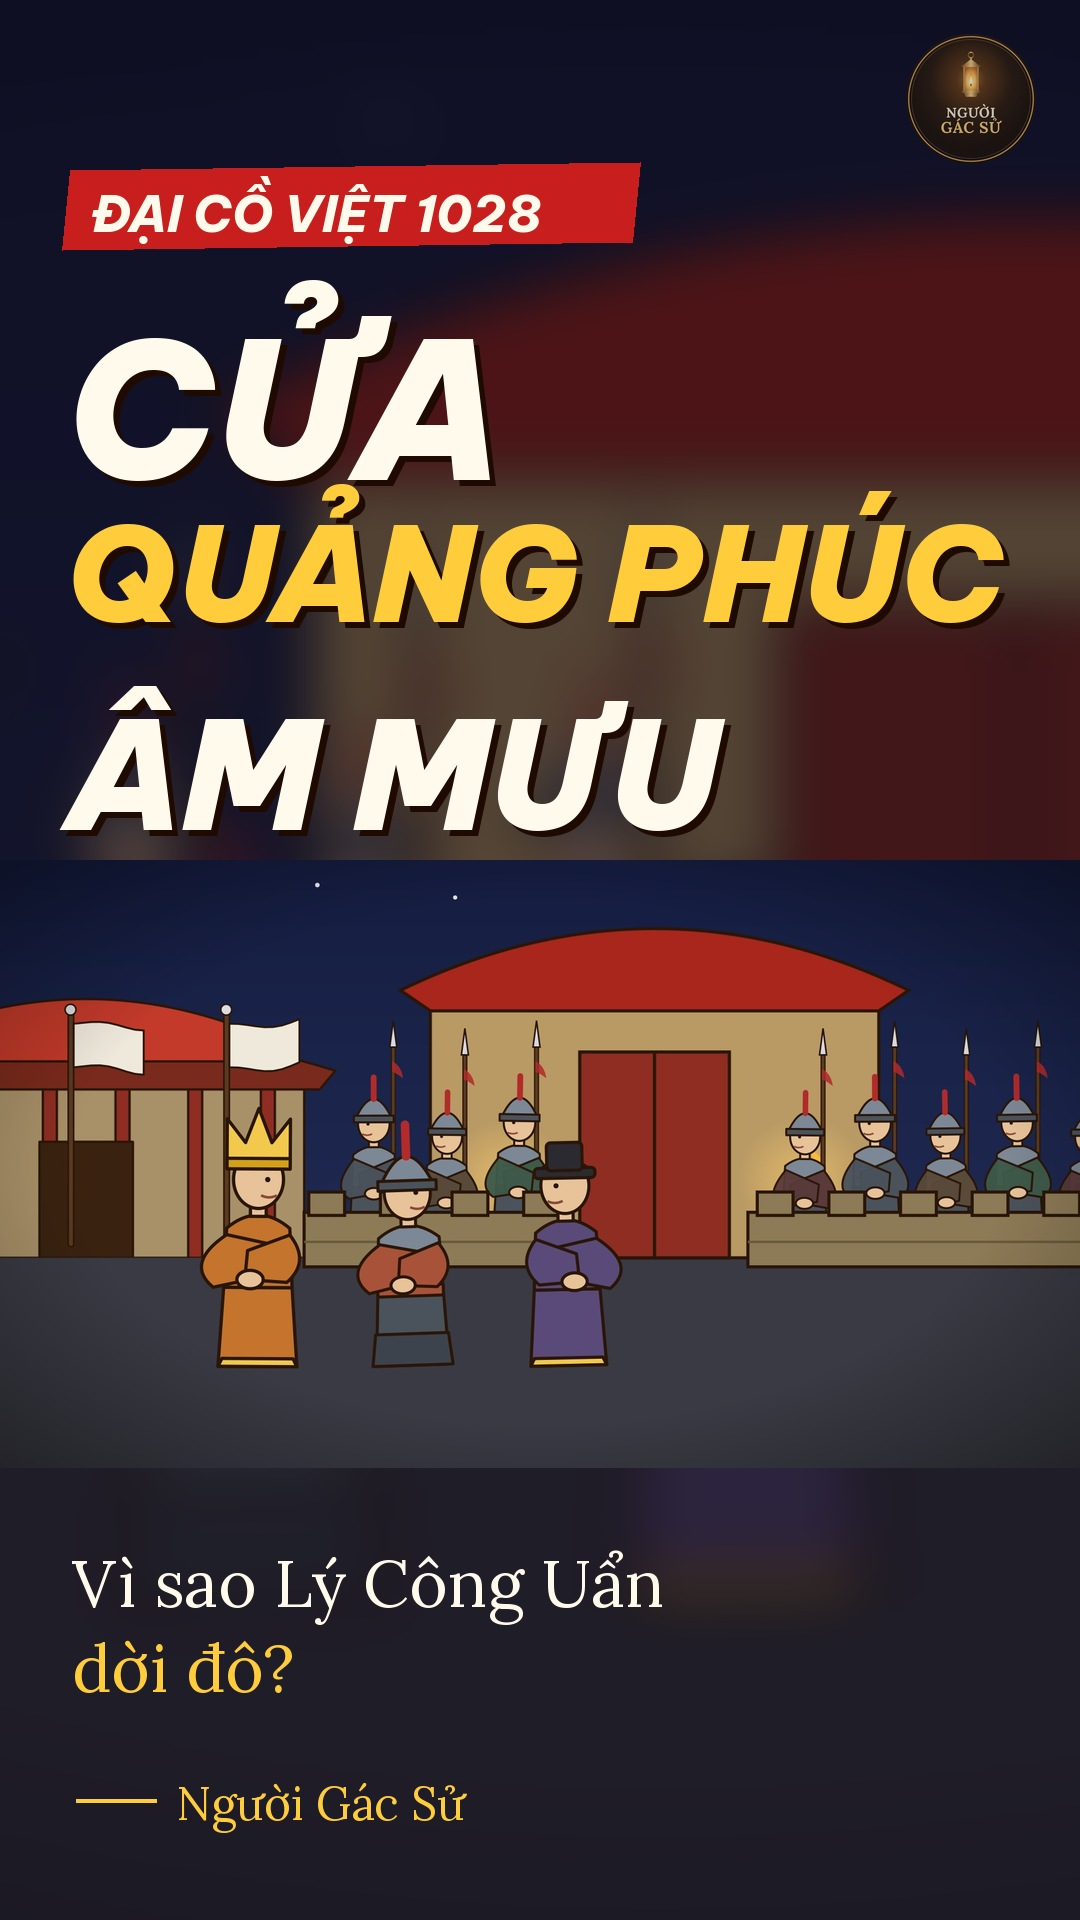
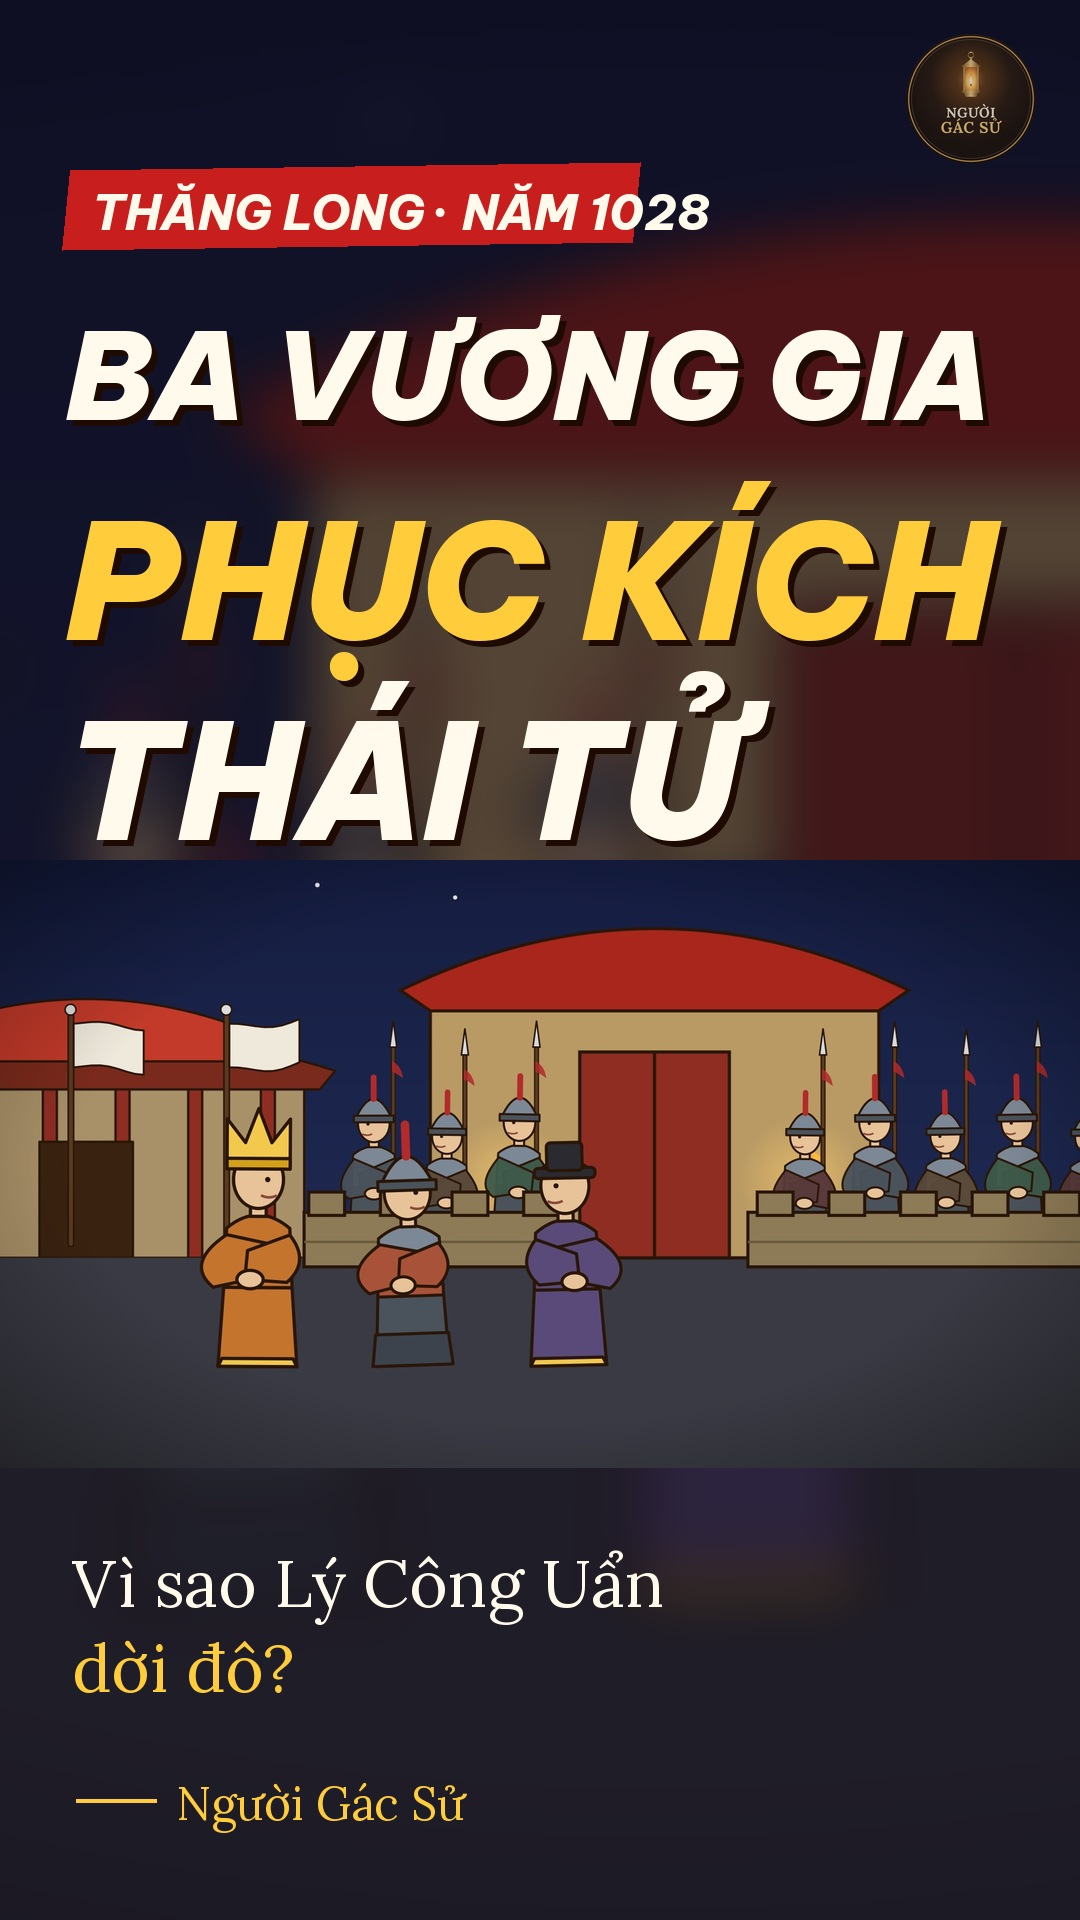
Bìa LY1: chữ dễ hiểu (Ba vương gia phục kích Thái tử)
Claude-Session: https://claude.ai/code/session_01H1Wbxj9sAcUYRQ6Wju6xqR

Changed region(s): [[0.0611, 0.0938, 0.9472, 0.4688]]

diff --git a/assets/bia/LY1/tao_bia.py b/assets/bia/LY1/tao_bia.py
@@ -25,13 +25,13 @@ def ngang(out):
     im.alpha_composite(g)
     d=ImageDraw.Draw(im)
     d.polygon([(70,70),(600,62),(592,142),(62,150)],fill=RED)
-    d.text((92,84),'ĐẠI CỒ VIỆT 1028',font=font(EXB,48),fill=WHITE)
-    shadow_text(im,(66,200),'CỬA',font(BLK,140),WHITE)
-    shadow_text(im,(66,375),'QUẢNG PHÚC',fit('QUẢNG PHÚC',BLK,660,140),YEL)
-    shadow_text(im,(66,545),'ÂM MƯU',font(BLK,130),WHITE)
+    d.text((92,84),'THĂNG LONG · NĂM 1028',font=fit('THĂNG LONG · NĂM 1028',EXB,470,48),fill=WHITE)
+    shadow_text(im,(66,200),'BA VƯƠNG GIA',fit('BA VƯƠNG GIA',BLK,680,110),WHITE)
+    shadow_text(im,(66,360),'PHỤC KÍCH',fit('PHỤC KÍCH',BLK,680,150),YEL)
+    shadow_text(im,(66,545),'THÁI TỬ',fit('THÁI TỬ',BLK,680,150),WHITE)
     d=ImageDraw.Draw(im)
-    t='Vì sao Lý Công Uẩn dời đô?'
-    d.text((72,830),t,font=fit(t,LORA,640,60),fill=WHITE)
+    t2='Vì sao Lý Công Uẩn dời đô?'
+    d.text((72,845),t2,font=fit(t2,LORA,640,58),fill=WHITE)
     add_logo(im)
     d.line([(76,985),(156,985)],fill=YEL,width=4); d.text((176,958),'Người Gác Sử',font=font(LORA,44),fill=YEL)
     im.convert('RGB').save(out,quality=93)
@@ -42,10 +42,10 @@ def doc(out):
     fg=src.resize((1080,608),Image.LANCZOS); im.alpha_composite(fg.convert('RGBA'),(0,860))
     d=ImageDraw.Draw(im)
     d.polygon([(70,170),(640,162),(632,242),(62,250)],fill=RED)
-    d.text((92,182),'ĐẠI CỒ VIỆT 1028',font=font(EXB,50),fill=WHITE)
-    shadow_text(im,(66,290),'CỬA',font(BLK,190),WHITE)
-    shadow_text(im,(66,490),'QUẢNG PHÚC',fit('QUẢNG PHÚC',BLK,940,170),YEL)
-    shadow_text(im,(66,680),'ÂM MƯU',font(BLK,150),WHITE)
+    d.text((92,182),'THĂNG LONG · NĂM 1028',font=font(EXB,48),fill=WHITE)
+    shadow_text(im,(66,300),'BA VƯƠNG GIA',fit('BA VƯƠNG GIA',BLK,940,150),WHITE)
+    shadow_text(im,(66,480),'PHỤC KÍCH',fit('PHỤC KÍCH',BLK,940,190),YEL)
+    shadow_text(im,(66,680),'THÁI TỬ',fit('THÁI TỬ',BLK,940,160),WHITE)
     d=ImageDraw.Draw(im)
     d.text((72,1540),'Vì sao Lý Công Uẩn',font=font(LORA,66),fill=WHITE)
     d.text((72,1625),'dời đô?',font=font(LORA,66),fill=YEL)
